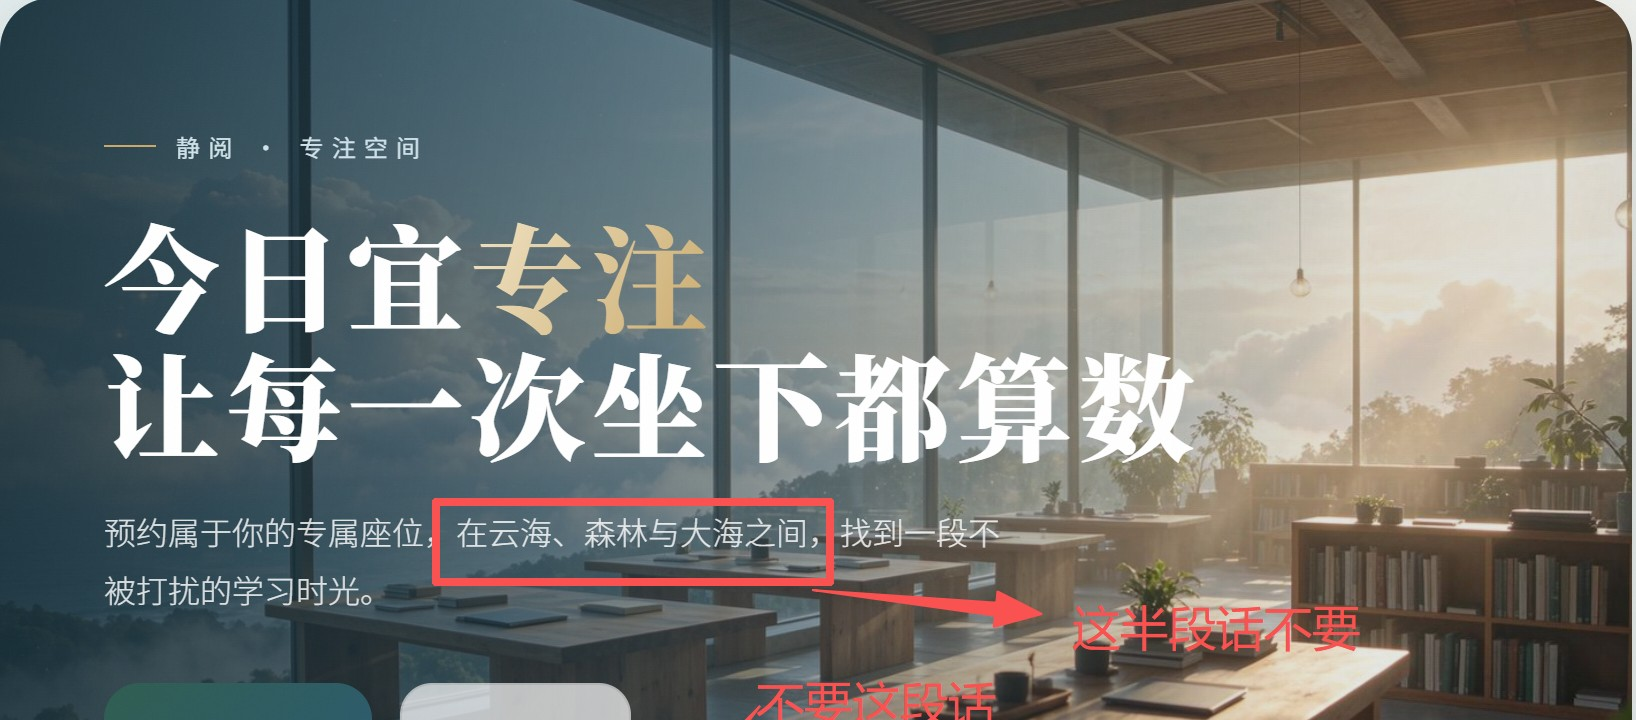
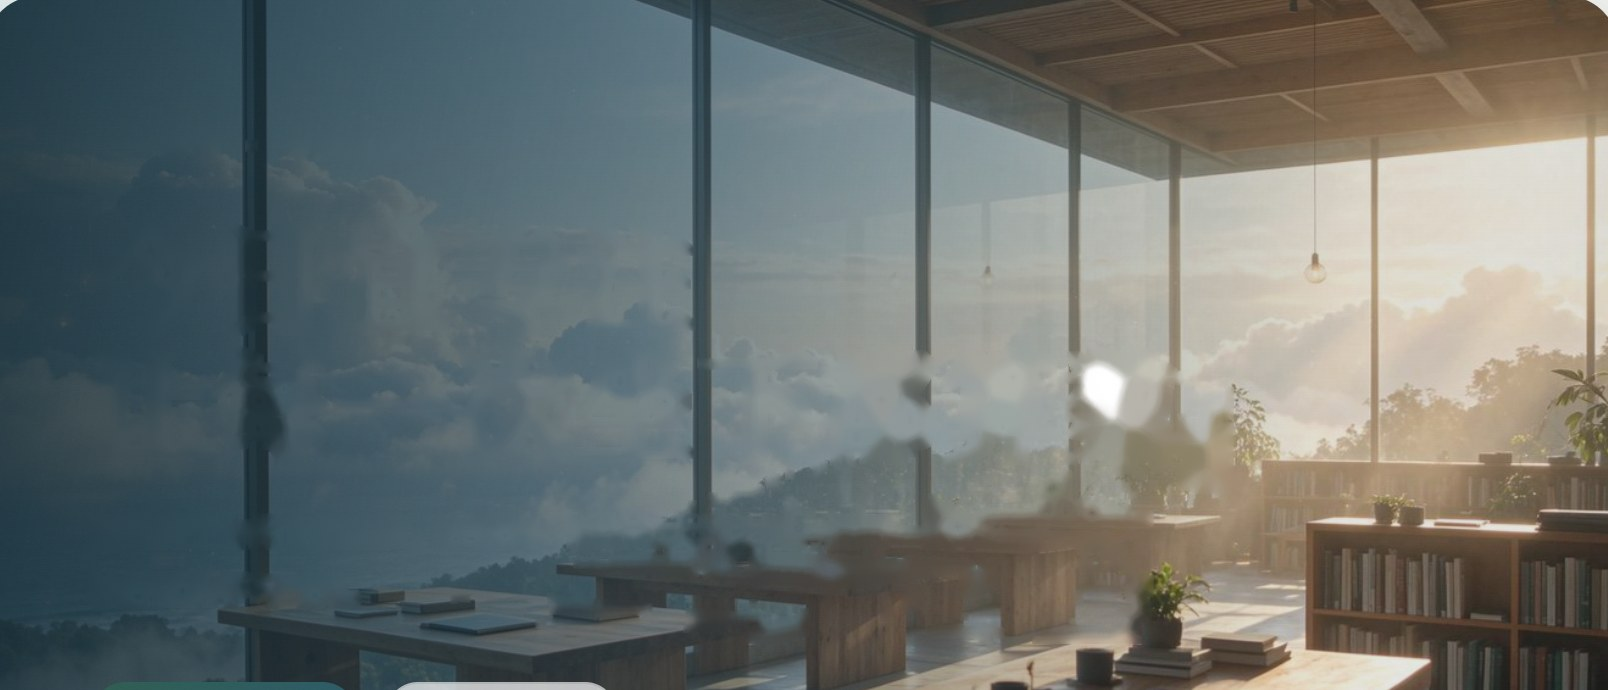
前端：用户端首页顶部改全幅并挂学习安排小黑板
顶部按原图铺满上半屏、不再做成卡片：清除原图烘焙的文字/按钮/统计后
用HTML重绘（副标题改为预约属于你的专属座位，找到一段不被打扰的学习
时光），加立即预约/我的预约、开放信息行与右下角玻璃统计卡；右上角
悬挂木质小黑板承载我的学习安排。下方我的学习安排卡片并入小黑板，
保留自习室列表与使用须知。管理员端不变。

diff --git a/frontend/src/views/HomeView.vue b/frontend/src/views/HomeView.vue
@@ -265,21 +265,65 @@ function timeText(row) {
         </div>
       </section>
 
-      <section class="home-top">
-        <img class="home-top-img" src="/images/home-top.jpg" alt="静阅自习室 · 今日宜专注" />
-        <div class="home-stats">
-          <div class="home-stats-head">
-            <h3>我的预约</h3>
-            <div class="home-stats-kpis">
-              <div><span>{{ pendingCount }}</span><small>待签到</small></div>
-              <div><span>{{ checkedInCount }}</span><small>使用中</small></div>
-              <div><span>{{ completedCount }}</span><small>已结束</small></div>
-              <div><span>{{ totalCount }}</span><small>累计预约</small></div>
+      <div class="hero-zone">
+        <section class="hero-full">
+          <div class="hero-inner">
+            <div class="hero-copy">
+              <p class="hero-eyebrow" data-page-title>
+                <span class="eyebrow-dash" aria-hidden="true" />
+                <span>静阅 · 专注空间</span>
+              </p>
+              <h1 class="hero-title">今日宜专注<br />让每一次坐下都<span class="hero-title-gold">算数</span></h1>
+              <p class="hero-sub">预约属于你的专属座位，找到一段不被打扰的学习时光</p>
+              <div class="hero-actions">
+                <button type="button" class="hero-btn hero-btn--solid" @click="router.push('/booking')">立即预约</button>
+                <button type="button" class="hero-btn hero-btn--glass" @click="router.push('/mine')">我的预约</button>
+              </div>
+              <p class="hero-meta">开放时间 08:00—22:00 · 全场静音 · 独立台灯与插座</p>
             </div>
           </div>
-          <p class="home-stats-info">开放时间 08:00—22:00 · 全场静音 · 独立台灯与插座</p>
-        </div>
-      </section>
+          <div class="hero-kpis">
+            <div class="hero-kpi"><b>{{ pendingCount }}</b><span>待签到</span></div>
+            <div class="hero-kpi"><b>{{ checkedInCount }}</b><span>使用中</span></div>
+            <div class="hero-kpi"><b>{{ completedCount }}</b><span>已结束</span></div>
+            <div class="hero-kpi"><b>{{ totalCount }}</b><span>累计预约</span></div>
+          </div>
+        </section>
+
+        <!-- 右上角悬挂小黑板：我的学习安排 -->
+        <aside class="board" aria-label="我的学习安排">
+          <span class="board-string board-string--left" aria-hidden="true" />
+          <span class="board-string board-string--right" aria-hidden="true" />
+          <div class="board-frame">
+            <div class="board-surface">
+              <div class="board-head">
+                <h3>我的学习安排</h3>
+                <RouterLink to="/mine" class="board-link">全部记录</RouterLink>
+              </div>
+              <p v-if="reservationsLoading" class="board-hint">正在读取本人预约…</p>
+              <p v-else-if="reservationsError" class="board-hint">{{ reservationsError }}</p>
+              <ul v-else-if="activeReservations.length" class="board-list">
+                <li v-for="row in activeReservations.slice(0, 3)" :key="row.id">
+                  <RouterLink v-if="row.status === 'pending'" :to="`/mine/${row.id}/checkin`" class="board-item">
+                    <b>{{ row.room_name }} · {{ row.seat_no }}</b>
+                    <small>{{ timeText(row) }}</small>
+                    <em>{{ statusText(row) }}</em>
+                  </RouterLink>
+                  <RouterLink v-else :to="'/mine'" class="board-item">
+                    <b>{{ row.room_name }} · {{ row.seat_no }}</b>
+                    <small>{{ timeText(row) }}</small>
+                    <em>{{ statusText(row) }}</em>
+                  </RouterLink>
+                </li>
+              </ul>
+              <template v-else>
+                <p class="board-hint">今天还没有安排学习</p>
+                <RouterLink to="/booking" class="board-cta">去选座</RouterLink>
+              </template>
+            </div>
+          </div>
+        </aside>
+      </div>
 
       <section class="zone-section">
         <div class="zone-head">
@@ -299,48 +343,15 @@ function timeText(row) {
         </div>
       </section>
 
-      <div class="home-layout">
-        <div class="home-main">
-          <div class="tips-anchor">
-            <StudyTips title="使用须知">
-              <ul class="tips tips-list">
-                <li>可预约当天至后天，单次至少 30 分钟，起止在开放空档内自选。</li>
-                <li>开始前取消不记违规；开始后未签到放弃记一次违约。</li>
-                <li>签到窗口为开始时刻起至开始后 15 分钟；本系统当前不提供签到延期。</li>
-                <li>短暂离开不延长原结束时间；提前签退释放剩余时段。</li>
-              </ul>
-            </StudyTips>
-          </div>
-        </div>
-        <aside class="home-side">
-          <section class="card schedule-card">
-            <div class="card-title-row">
-              <h3>我的学习安排</h3>
-              <RouterLink to="/mine" class="text-link">全部记录</RouterLink>
-            </div>
-            <p v-if="reservationsLoading" class="muted">正在读取本人预约…</p>
-            <SBanner v-else-if="reservationsError" type="error" :title="reservationsError"><SButton size="sm" @click="loadReservations">重试</SButton></SBanner>
-            <div v-else-if="activeReservations.length" class="schedule-list">
-              <article v-for="row in activeReservations" :key="row.id" class="schedule-item">
-                <div class="schedule-head">
-                  <h4>{{ row.room_name }} · {{ row.seat_no }}</h4>
-                  <span class="pill" :class="statusPillClass(row)">{{ statusText(row) }}</span>
-                </div>
-                <p class="schedule-time">{{ timeText(row) }}</p>
-                <p v-if="checkinDeadlineOf(row)" class="schedule-deadline">签到截止 <b>{{ deadlineLabel(checkinDeadlineOf(row)) }}</b></p>
-                <div class="schedule-actions">
-                  <SButton v-if="row.status === 'pending'" variant="primary" size="sm" @click="router.push(`/mine/${row.id}/checkin`)">去签到</SButton>
-                  <SButton variant="soft" size="sm" @click="router.push('/mine')">查看详情</SButton>
-                </div>
-              </article>
-            </div>
-            <div v-else class="empty-schedule">
-              <AppIcon name="desk-book" :size="30" class="empty-icon" />
-              <p>今天还没有安排学习，挑一个合适的座位开始吧。</p>
-              <SButton variant="primary" block @click="router.push('/booking')">去选座</SButton>
-            </div>
-          </section>
-        </aside>
+      <div class="user-bottom">
+        <StudyTips title="使用须知">
+          <ul class="tips tips-list">
+            <li>可预约当天至后天，单次至少 30 分钟，起止在开放空档内自选。</li>
+            <li>开始前取消不记违规；开始后未签到放弃记一次违约。</li>
+            <li>签到窗口为开始时刻起至开始后 15 分钟；本系统当前不提供签到延期。</li>
+            <li>短暂离开不延长原结束时间；提前签退释放剩余时段。</li>
+          </ul>
+        </StudyTips>
       </div>
     </template>
   </div>
@@ -378,25 +389,131 @@ function timeText(row) {
 /* 整页底色：取自设计稿第三张图（冰蓝），仅用户端首页 */
 .home-page--user { background: #e0f0f0; box-shadow: 0 0 0 100vmax #e0f0f0; padding-top: 28px; }
 
-/* 顶部区：设计稿第一张图的上半部（不含烘焙统计区）+ 真实统计条 */
-.home-top { margin-bottom: 22px; border-radius: var(--r-2xl); overflow: hidden; background: #476467; box-shadow: var(--shadow-2); }
-.home-top-img {
-  display: block;
-  width: 100%;
-  aspect-ratio: 1636 / 720;
-  object-fit: cover;
-  /* 底部淡出与统计条底色衔接 */
-  -webkit-mask-image: linear-gradient(to bottom, #000 93%, transparent 100%);
-  mask-image: linear-gradient(to bottom, #000 93%, transparent 100%);
+/* 顶部区：原图整幅铺满上半屏（非卡片），文字/按钮/统计由 HTML 渲染 */
+.hero-zone { position: relative; margin-bottom: 26px; }
+.hero-full {
+  position: relative;
+  /* 冲出版心 padding，左右铺到视口边缘 */
+  margin: -28px calc(50% - 50vw) 0;
+  min-height: clamp(460px, 58vh, 760px);
+  padding: 0;
+  background: #2b3a45 url('/images/home-top.jpg') center / cover no-repeat;
+  overflow: hidden;
+  display: flex;
+  align-items: center;
 }
-.home-stats { padding: 18px 26px 20px; }
-.home-stats-head { display: flex; align-items: flex-end; justify-content: space-between; gap: 20px; flex-wrap: wrap; }
-.home-stats-head h3 { margin: 0; font-size: 19px; color: #f4f1ea; font-family: var(--font-display); }
-.home-stats-kpis { display: flex; gap: 36px; flex-wrap: wrap; }
-.home-stats-kpis > div { text-align: center; min-width: 56px; }
-.home-stats-kpis span { display: block; font-family: var(--font-display); font-size: 28px; line-height: 1.1; color: #ffffff; font-variant-numeric: tabular-nums; }
-.home-stats-kpis small { color: #cfd9d4; font-size: 12px; }
-.home-stats-info { margin: 10px 0 0; color: #cfd9d4; font-size: 12.5px; }
+/* 左侧压暗，保证文字可读 */
+.hero-full::before {
+  content: '';
+  position: absolute;
+  inset: 0;
+  background: linear-gradient(95deg, rgba(10, 20, 28, .78) 0%, rgba(10, 20, 28, .5) 34%, rgba(10, 20, 28, .08) 62%, transparent 78%);
+  pointer-events: none;
+}
+.hero-inner {
+  position: relative;
+  z-index: 1;
+  width: 100%;
+  max-width: 1560px;
+  margin: 0 auto;
+  padding: 64px 40px 96px;
+}
+.hero-copy { max-width: 760px; }
+.hero-eyebrow { display: flex; align-items: center; gap: 14px; color: rgba(240, 235, 225, .86); font-size: 15px; letter-spacing: .28em; }
+.eyebrow-dash { width: 46px; height: 1px; background: rgba(240, 235, 225, .7); }
+.hero-title {
+  margin: 18px 0 20px;
+  font-family: var(--font-display);
+  font-size: clamp(38px, 5.4vw, 82px);
+  font-weight: 700;
+  line-height: 1.12;
+  letter-spacing: .03em;
+  color: #fbf8f2;
+  text-shadow: 0 6px 30px rgba(6, 14, 20, .45);
+}
+.hero-title-gold { color: #dcbd7a; }
+.hero-sub { max-width: 620px; color: rgba(238, 236, 230, .9); font-size: clamp(15px, 1.15vw, 18px); line-height: 1.7; }
+.hero-actions { display: flex; flex-wrap: wrap; gap: 14px; margin-top: 30px; }
+.hero-btn {
+  all: unset;
+  display: inline-flex;
+  align-items: center;
+  justify-content: center;
+  height: 56px;
+  padding: 0 39px;
+  border-radius: 14px;
+  font-size: 18px;
+  font-weight: 600;
+  letter-spacing: .02em;
+  cursor: pointer;
+  transition: transform var(--dur-1) var(--ease), background var(--dur-1) var(--ease), box-shadow var(--dur-1) var(--ease);
+}
+.hero-btn:focus-visible { outline: 2px solid #f0e6cf; outline-offset: 3px; }
+.hero-btn--solid { background: #2c4b47; color: #f7f4ec; box-shadow: 0 10px 24px rgba(4, 12, 16, .35); }
+.hero-btn--solid:hover { background: #365c57; transform: translateY(-1px); }
+.hero-btn--glass { background: rgba(255, 255, 255, .28); color: #2a312e; backdrop-filter: blur(10px); border: 1px solid rgba(255, 255, 255, .55); }
+.hero-btn--glass:hover { background: rgba(255, 255, 255, .4); transform: translateY(-1px); }
+.hero-meta { margin-top: 22px; color: rgba(226, 224, 218, .78); font-size: 14px; letter-spacing: .02em; }
+
+/* 右下角四个玻璃统计卡 */
+.hero-kpis { position: absolute; right: max(40px, calc((100% - 1560px) / 2 + 40px)); bottom: 34px; z-index: 2; display: flex; gap: 14px; }
+.hero-kpi {
+  min-width: 112px;
+  padding: 20px 16px 16px;
+  border-radius: 16px;
+  background: rgba(255, 255, 255, .17);
+  border: 1px solid rgba(255, 255, 255, .22);
+  backdrop-filter: blur(12px);
+  text-align: center;
+  color: #fdfcf8;
+}
+.hero-kpi b { display: block; font-family: var(--font-display); font-size: 34px; line-height: 1; font-variant-numeric: tabular-nums; }
+.hero-kpi span { display: block; margin-top: 10px; font-size: 13px; color: rgba(250, 250, 246, .82); }
+
+/* 右上角悬挂小黑板 */
+.board { position: absolute; top: 0; right: max(40px, calc((100% - 1560px) / 2 + 40px)); z-index: 3; width: 300px; transform-origin: 50% -30px; transform: rotate(-1.4deg); }
+.board-string { position: absolute; top: -14px; width: 1px; height: 22px; background: rgba(235, 232, 224, .75); }
+.board-string--left { left: 34px; }
+.board-string--right { right: 34px; }
+.board-frame {
+  padding: 9px;
+  border-radius: 10px;
+  background: linear-gradient(160deg, #9a7a52, #6f5537 55%, #8b6c48);
+  box-shadow: 0 18px 34px rgba(6, 14, 18, .45), inset 0 1px 0 rgba(255, 255, 255, .25);
+}
+.board-surface {
+  border-radius: 5px;
+  padding: 16px 18px 18px;
+  background:
+    radial-gradient(120% 80% at 20% 0%, rgba(255, 255, 255, .07), transparent 60%),
+    #25322c;
+  box-shadow: inset 0 0 22px rgba(0, 0, 0, .55);
+  color: #e9efe7;
+}
+.board-head { display: flex; align-items: baseline; justify-content: space-between; gap: 10px; }
+.board-head h3 { margin: 0; font-family: var(--font-display); font-size: 17px; letter-spacing: .06em; color: #f2f6ef; }
+.board-link { color: #b9cbb9; font-size: 12px; text-decoration: none; border-bottom: 1px dashed rgba(185, 203, 185, .5); }
+.board-link:hover { color: #e3ecdf; }
+.board-hint { margin: 12px 0 0; color: #b3c1b4; font-size: 13px; }
+.board-list { list-style: none; margin: 12px 0 0; padding: 0; display: grid; gap: 8px; }
+.board-item {
+  display: grid;
+  grid-template-columns: 1fr auto;
+  gap: 2px 10px;
+  padding: 9px 10px;
+  border-radius: 6px;
+  background: rgba(255, 255, 255, .05);
+  color: #e6ede3;
+  text-decoration: none;
+}
+.board-item:hover { background: rgba(255, 255, 255, .1); }
+.board-item b { font-size: 13px; font-weight: 600; overflow: hidden; text-overflow: ellipsis; white-space: nowrap; }
+.board-item em { font-style: normal; font-size: 11px; color: #cfe0c6; }
+.board-item small { grid-column: 1 / -1; font-size: 11.5px; color: #a9b8a9; font-variant-numeric: tabular-nums; }
+.board-cta { display: inline-block; margin-top: 12px; padding: 7px 14px; border-radius: 999px; background: rgba(240, 238, 225, .92); color: #26332c; font-size: 12.5px; text-decoration: none; }
+.board-cta:hover { background: #fff; }
+
+.user-bottom { margin-top: 8px; }
 
 /* 自习室种类卡片 */
 .zone-section { margin-bottom: 22px; }
@@ -413,11 +530,25 @@ function timeText(row) {
 
 @media (max-width: 1200px) {
   .zone-grid { grid-template-columns: repeat(2, 1fr); }
+  .hero-inner { padding: 52px 28px 96px; }
+  .hero-copy { max-width: 100%; padding-right: 0; }
+  .hero-kpis { position: static; margin: 0; padding: 0 28px 34px; justify-content: flex-end; flex-wrap: wrap; }
+  .hero-full { flex-direction: column; align-items: stretch; justify-content: space-between; }
+  .board { position: static; transform: none; width: auto; max-width: 360px; margin: 16px 0 0 auto; }
+  .board-string { display: none; }
 }
 @media (max-width: 760px) {
   .zone-grid { grid-template-columns: 1fr; }
-  .home-stats-head { flex-direction: column; align-items: flex-start; }
-  .home-stats-kpis { width: 100%; justify-content: space-between; gap: 8px; }
+  .hero-full { margin: -20px calc(50% - 50vw) 0; min-height: 0; }
+  .hero-inner { padding: 34px 20px 28px; }
+  .hero-title { font-size: clamp(30px, 9vw, 44px); }
+  .hero-actions { gap: 10px; }
+  .hero-btn { height: 48px; padding: 0 26px; font-size: 16px; }
+  .hero-kpis { padding: 0 20px 24px; gap: 8px; }
+  .hero-kpi { min-width: 0; flex: 1 1 0; padding: 14px 8px 12px; }
+  .hero-kpi b { font-size: 26px; }
+  .home-hello h1 { font-size: 28px; }
+  .quick-grid { grid-template-columns: 1fr; }
 }
 
 .hero {
